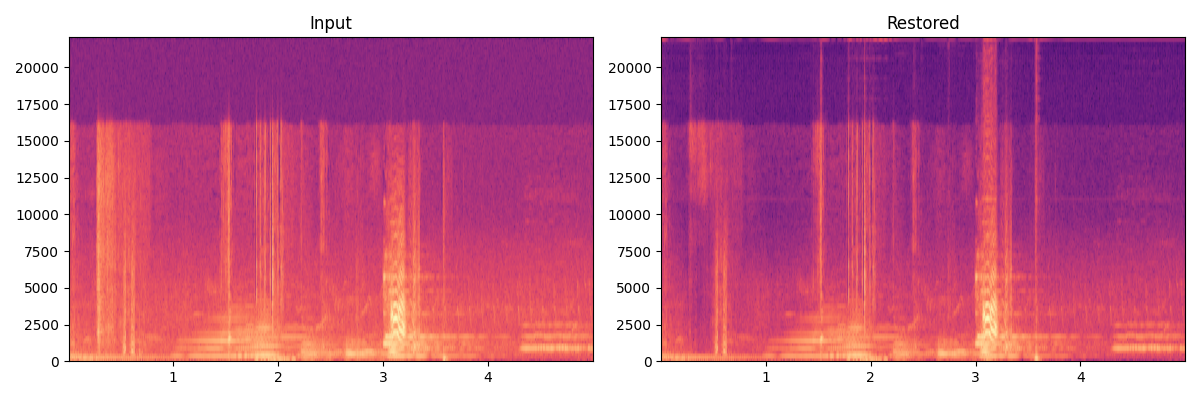
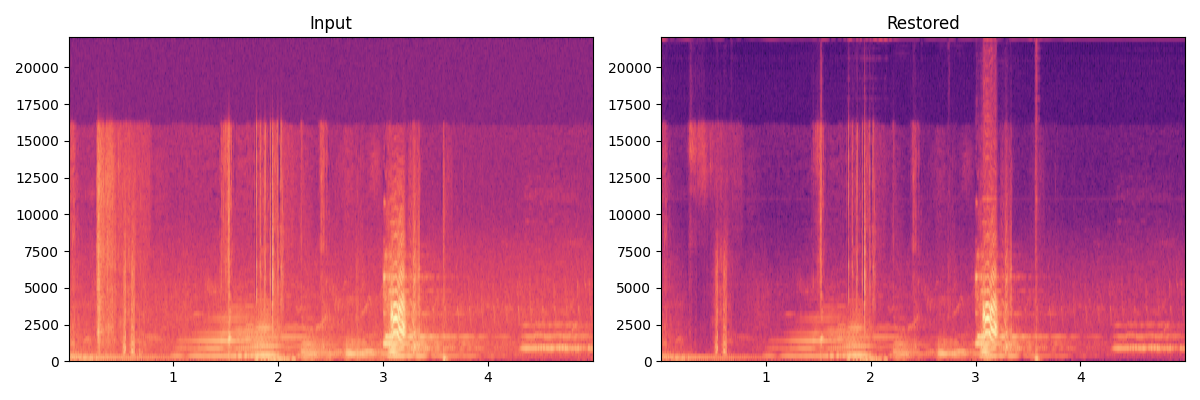
feat(samples): add real audio WAV and video MP4 samples
- Demucs: 10s Big Buck Bunny music separation (before/after WAV)
- VoiceFixer: 10s Tears of Steel speech (before/after WAV)
- YADIF: 75-frame / 3s Sintel clip (before/after MP4 @ 24fps)
- .gitignore: allow docs/assets/restorations/*.wav and *.mp4
- generate_real_samples.py: _save_video_clip helper for MP4 output

diff --git a/scripts/generate_real_samples.py b/scripts/generate_real_samples.py
@@ -81,6 +81,31 @@ def _extract_frame(path: Path, n: int = 30) -> np.ndarray:
     return cv2.cvtColor(frame, cv2.COLOR_BGR2RGB)
 
 
+def _save_video_clip(name: str, src: Path, process_fn, start: int = 30,
+                     n_frames: int = 75) -> None:
+    cap = cv2.VideoCapture(str(src))
+    fps = cap.get(cv2.CAP_PROP_FPS) or 25.0
+    w = int(cap.get(cv2.CAP_PROP_FRAME_WIDTH))
+    h = int(cap.get(cv2.CAP_PROP_FRAME_HEIGHT))
+    cap.set(cv2.CAP_PROP_POS_FRAMES, start)
+    fourcc = cv2.VideoWriter_fourcc(*"mp4v")
+    out_before = cv2.VideoWriter(str(OUT / f"{name}_before.mp4"), fourcc, fps, (w, h))
+    out_after = cv2.VideoWriter(str(OUT / f"{name}_after.mp4"), fourcc, fps, (w, h))
+    for _ in range(n_frames):
+        ok, frame = cap.read()
+        if not ok:
+            break
+        rgb = cv2.cvtColor(frame, cv2.COLOR_BGR2RGB)
+        processed = process_fn(rgb)
+        ph, pw = processed.shape[:2]
+        out_before.write(cv2.resize(frame, (pw, ph)))
+        out_after.write(cv2.cvtColor(processed, cv2.COLOR_RGB2BGR))
+    cap.release()
+    out_before.release()
+    out_after.release()
+    print(f"  saved {name}_before/after.mp4 ({n_frames} frames @ {fps:.0f} fps)")
+
+
 def _spectrogram(name: str, before: np.ndarray, after: np.ndarray, sr: int) -> None:
     try:
         import matplotlib
@@ -185,7 +210,8 @@ def run_deinterlacing() -> None:
     try:
         from restorax.restorers.deinterlacing.yadif_deinterlace import YadifDeinterlaceRestorer
         from restorax.core.restorer import RestorerParams
-        frame = _extract_frame(SAMPLES / "video/film_sintel.mp4", n=30)
+        video_path = SAMPLES / "video/film_sintel.mp4"
+        frame = _extract_frame(video_path, n=30)
         restorer = YadifDeinterlaceRestorer()
         t0 = time.time()
         restorer.load(DEVICE)
@@ -193,6 +219,11 @@ def run_deinterlacing() -> None:
         elapsed = time.time() - t0
         print(f"  output: {out.shape}, {elapsed:.1f}s")
         _save_comparison("deinterlace_yadif", frame, out)
+        # Also save a real video clip (3 seconds / 75 frames)
+        _save_video_clip("deinterlace_yadif",
+                         video_path,
+                         lambda f: restorer.process_frame(f, RestorerParams()),
+                         start=30, n_frames=75)
         manifest["deinterlace_yadif"] = {"status": "real", "model": "YADIF (classical)",
                                           "elapsed_s": round(elapsed, 2)}
     except Exception as e: